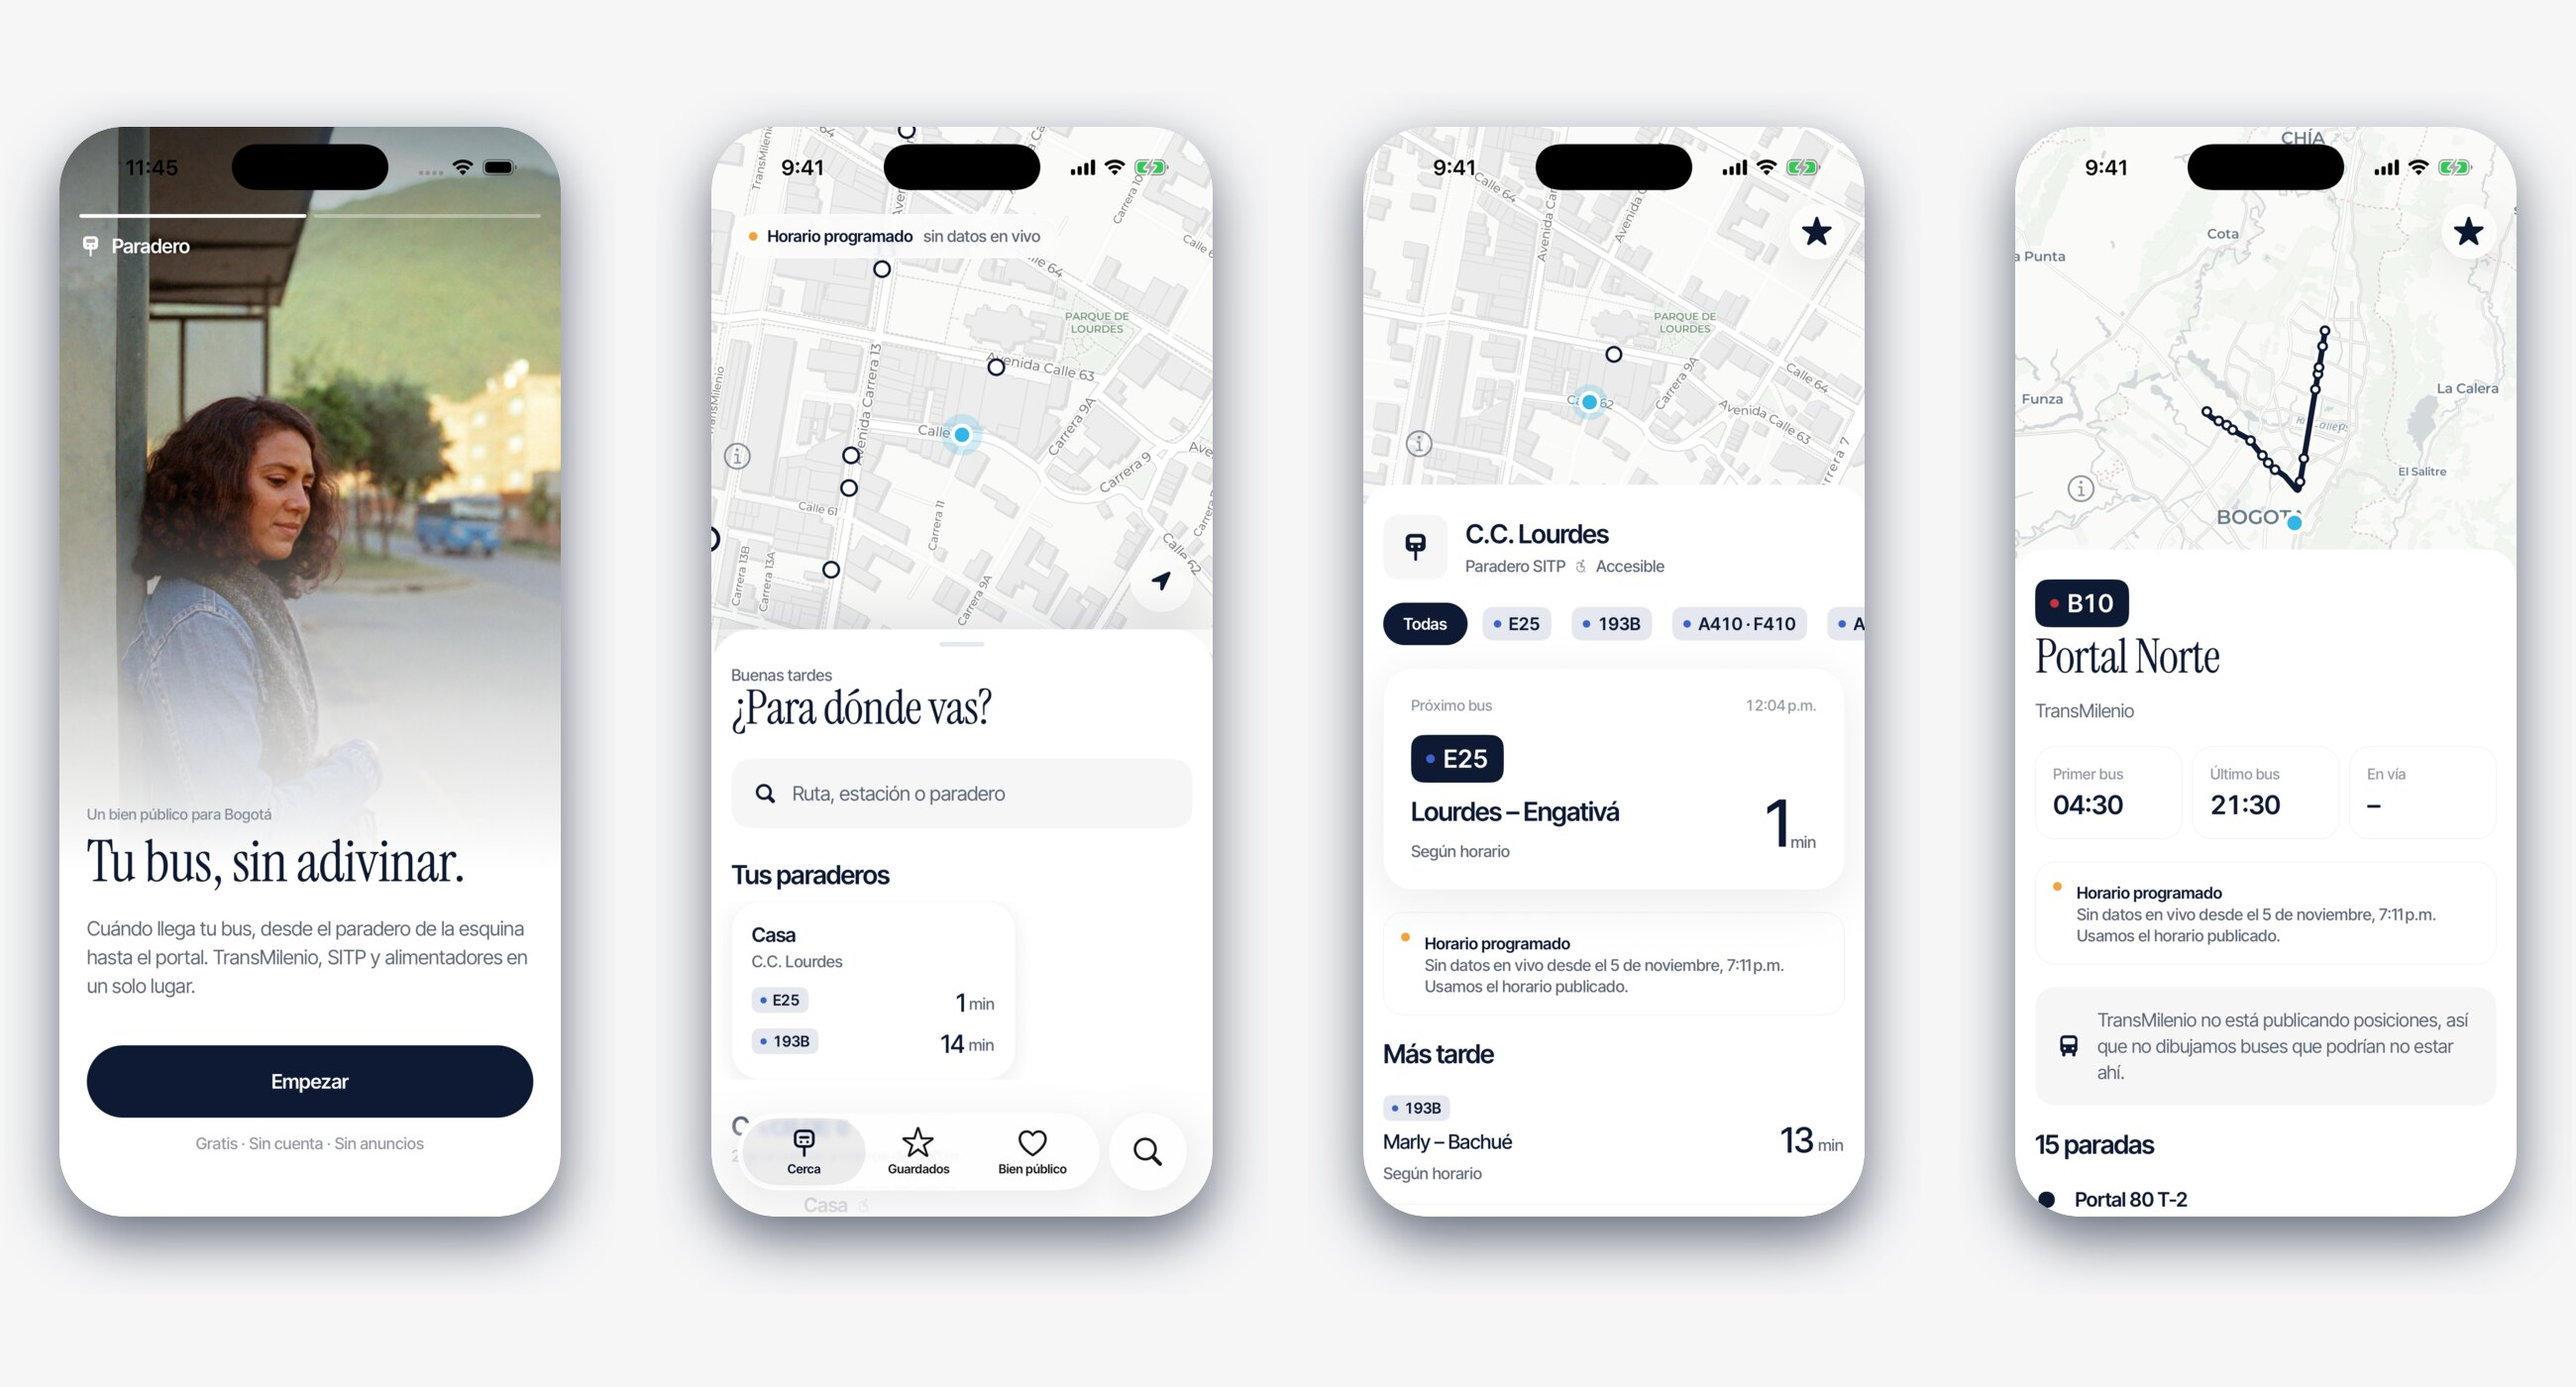
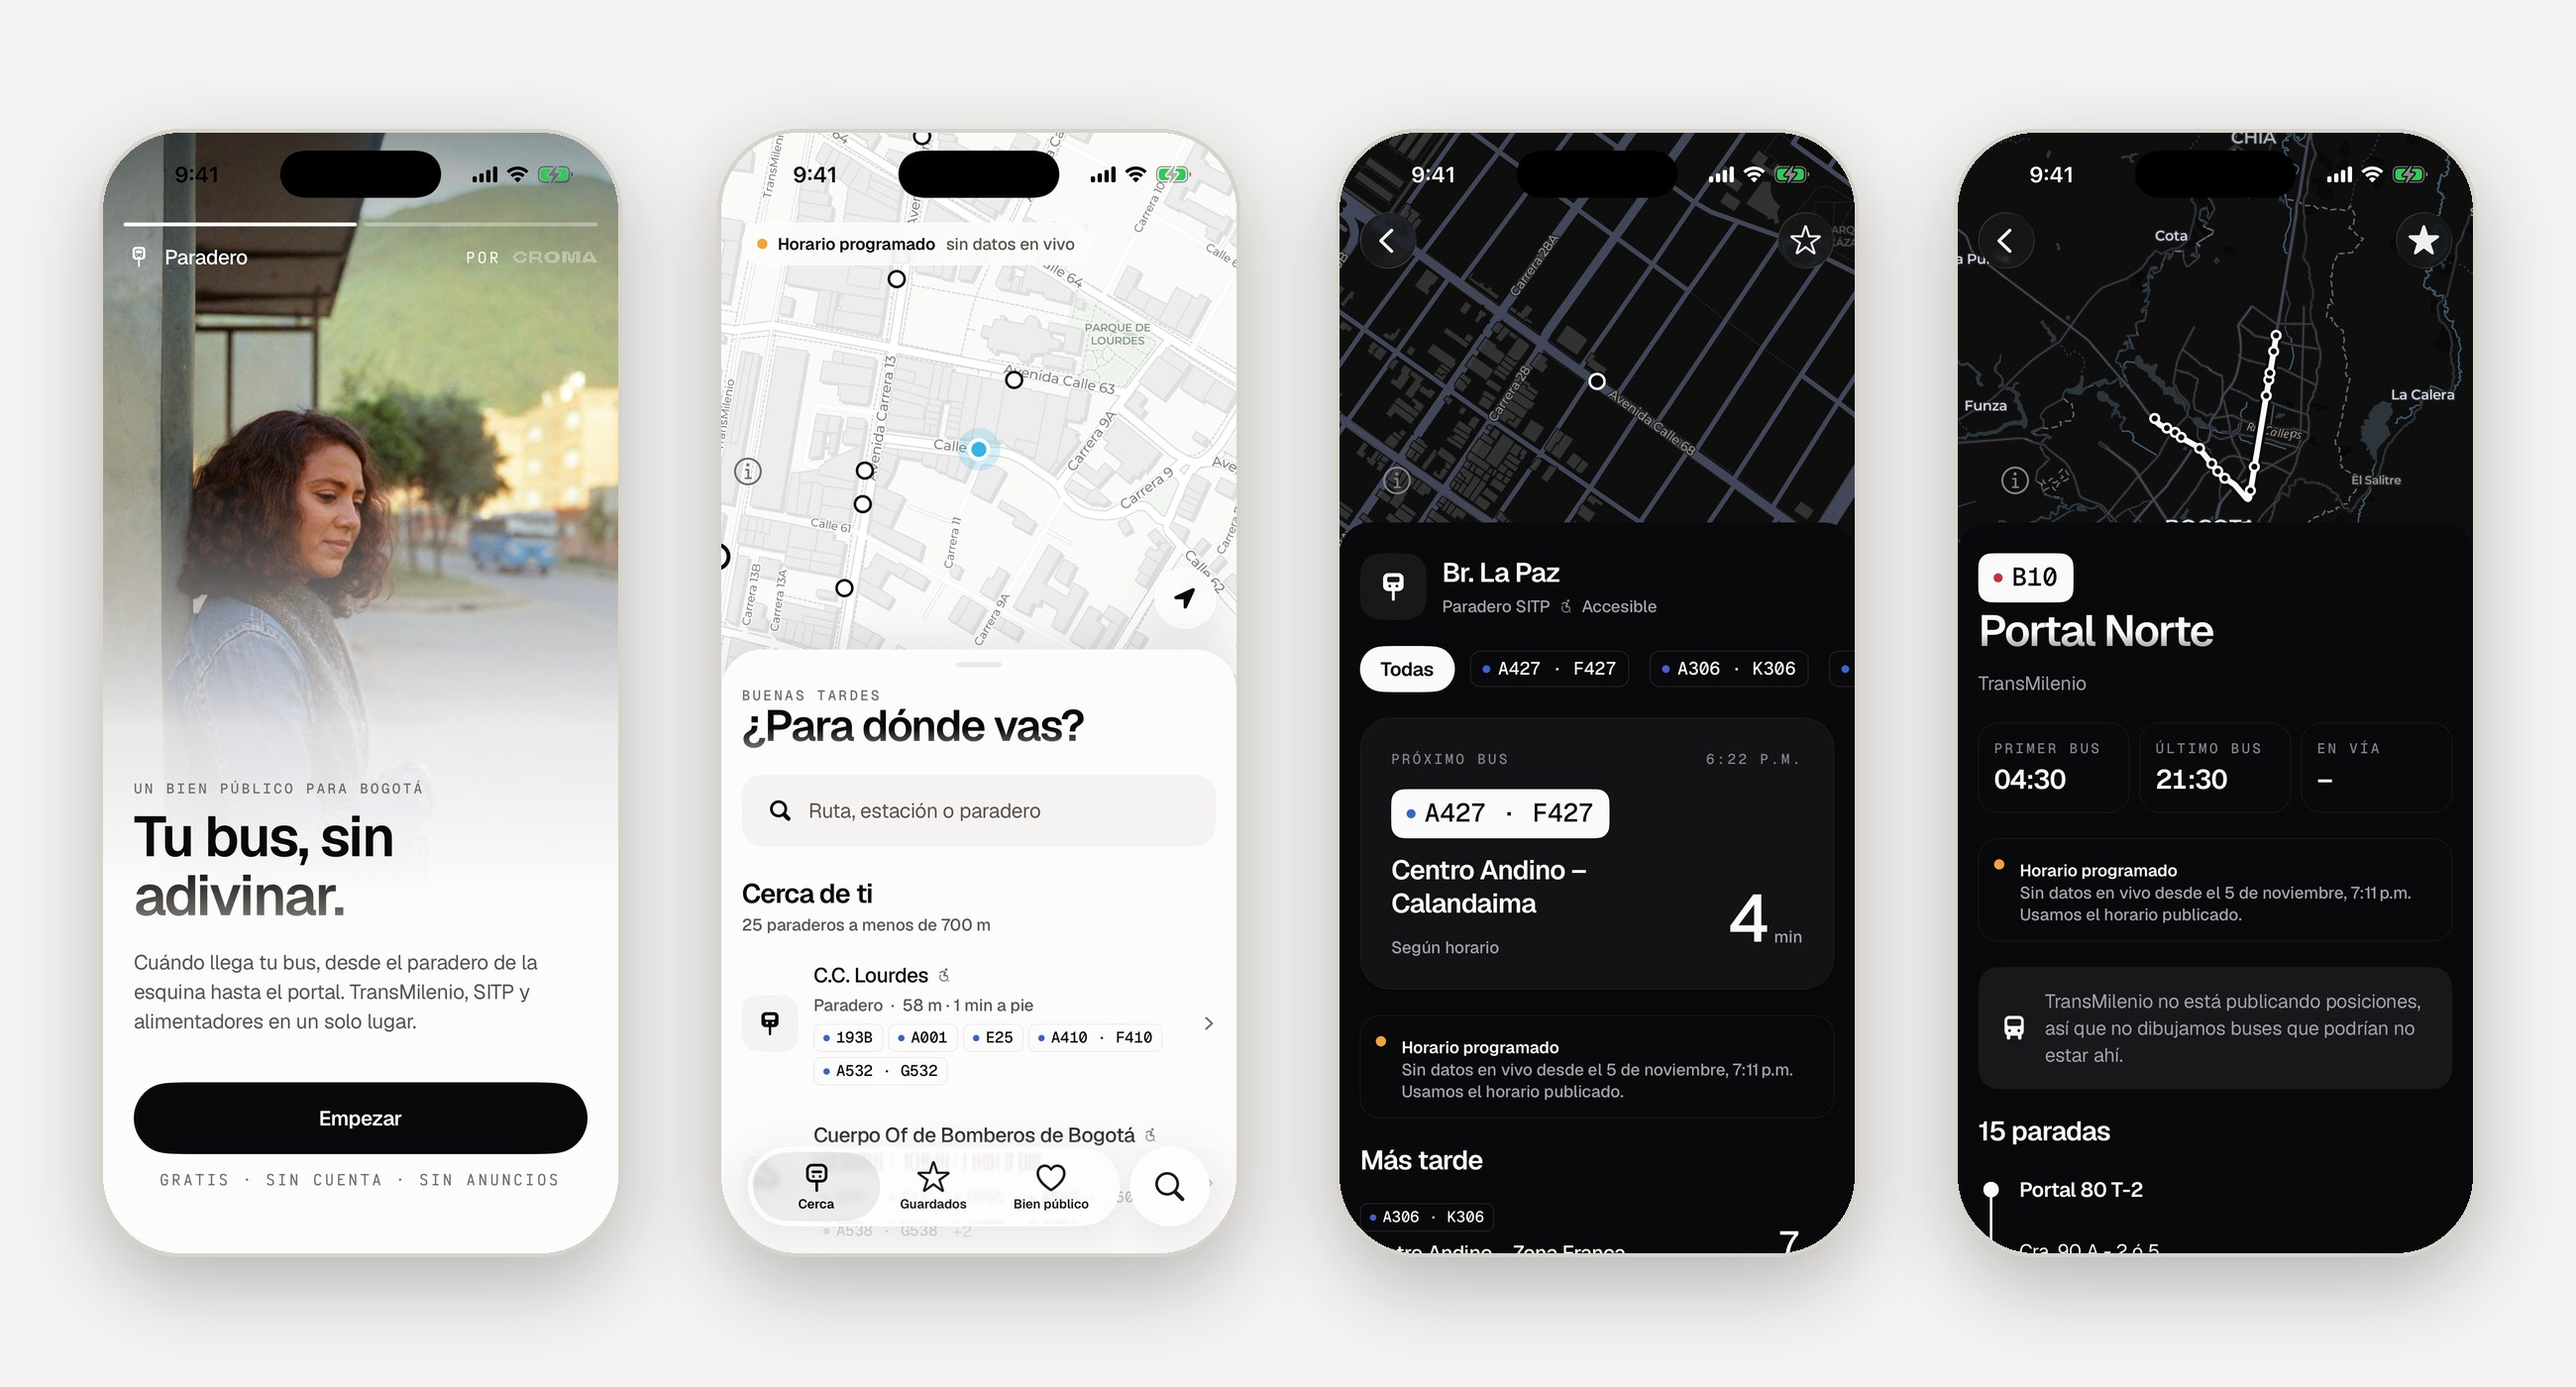
Show the Croma identity in the README hero (#8)
Onboarding and nearby stops in light mode, a stop's next buses and route
B10 in dark mode.

diff --git a/README.md b/README.md
@@ -4,7 +4,7 @@
 
 Un bien público digital de [Croma](https://usecroma.com) · Datos abiertos de TransMilenio · Licencia MIT · [Privacidad](https://transmi.usecroma.com/paradero/privacidad) · No es una app oficial del Distrito.
 
-![Paradero: onboarding, paraderos cercanos, próximos buses y recorrido de una ruta en Bogotá](.github/assets/hero.jpg)
+![Paradero con la identidad de Croma: inicio y paraderos cercanos en modo claro, próximos buses de un paradero y recorrido de la ruta B10 en modo oscuro](.github/assets/hero.jpg)
 
 ## Un bien común, para el Estado y para la gente
 
